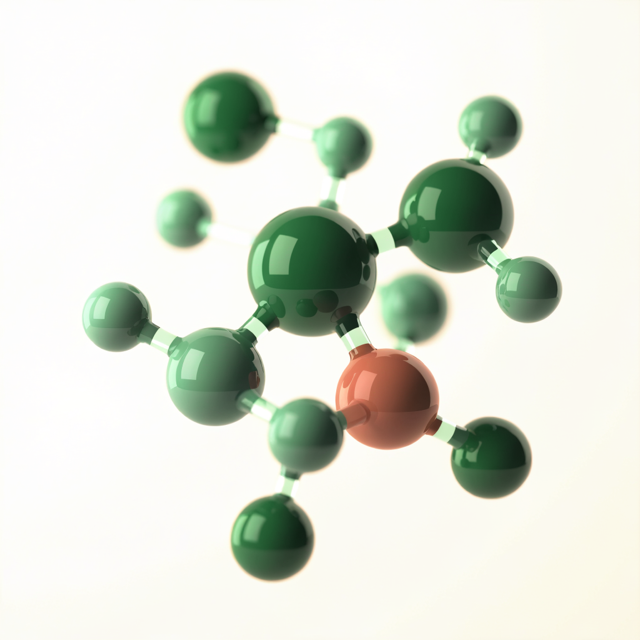
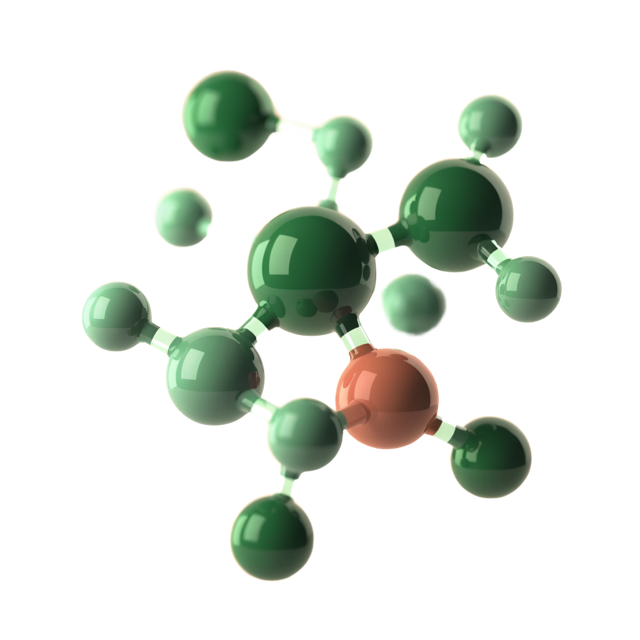
Catálogo tile: molécula flotante (fondo transparente) + nombre sobre la imagen
Feedback de Roberto: la molécula se veía muy grande (object-fit cover la
recortaba). Ahora:
- 13 moléculas pasadas por remove_background (Higgsfield) → fondo
  transparente, flotan limpias sobre el gradiente de la tarjeta.
- Tarjeta = tile: la imagen ES todo el cuadro (aspect 1/1.04, gradiente
  crema→menta), molécula en contain (más pequeña, completa), badge en
  overlay arriba, nombre + subtítulo superpuestos abajo sobre velo.
- Se quitan descripción/footer (la tarjeta entera es clickeable).

diff --git a/peptidos/index.html b/peptidos/index.html
@@ -45,56 +45,36 @@
     </div>
     <p class="cat-context">No todos los "GLP" son iguales. <strong>GLP-1</strong> significa <em>glucagon-like peptide-1</em>: una hormona del intestino que regula el <strong>apetito, la saciedad y la glucosa</strong>. La <strong>semaglutida</strong> imita esa sola hormona. La <strong>tirzepatida</strong> suma una segunda, <strong>GIP</strong>, por eso es un <em>agonista dual</em> y suele ser más potente. La <strong>retatrutida</strong> añade una tercera, el <strong>glucagón</strong> (que aumenta el gasto de energía), volviéndose un <em>triple agonista</em> — muy potente, pero todavía en investigación. Ojo: algunos ni siquiera son "GLP" (la cagrilintida es un análogo de amilina). El mecanismo, la evidencia y los riesgos <strong>cambian en cada uno</strong>.</p>
     <div class="grid">
-      <a class="pcard" data-category="metabolic" href="/peptides/semaglutide/">
-        <div class="pcard-media">
-          <img class="pcard-mol-img" src="/assets/images/structures/semaglutide.png" alt="Representación molecular de Semaglutide" loading="lazy" />
-          <span class="badge ev-establecido">Establecido</span>
-        </div>
-        <h3>Semaglutide</h3>
-        <p class="aka">Ozempic / Wegovy</p>
-        <p class="goal">Pérdida de peso y control de glucosa</p>
-        <div class="pcard-foot">
-          <span class="cat-tag">🔥 Metabólico / GLP-1</span>
-          <span class="more">Ver ficha →</span>
+      <a class="pcard pcard-tile" data-category="metabolic" href="/peptides/semaglutide/">
+        <img class="pcard-mol-img" src="/assets/images/structures/semaglutide.png" alt="Representación molecular de Semaglutide" loading="lazy" />
+        <span class="badge ev-establecido">Establecido</span>
+        <div class="pcard-cap">
+          <h3>Semaglutide</h3>
+          <p class="pcard-sub">Ozempic / Wegovy</p>
         </div>
       </a>
-      <a class="pcard" data-category="metabolic" href="/peptides/tirzepatide/">
-        <div class="pcard-media">
-          <img class="pcard-mol-img" src="/assets/images/structures/tirzepatide.png" alt="Representación molecular de Tirzepatide" loading="lazy" />
-          <span class="badge ev-establecido">Establecido</span>
-        </div>
-        <h3>Tirzepatide</h3>
-        <p class="aka">Mounjaro / Zepbound</p>
-        <p class="goal">Pérdida de peso y control de glucosa</p>
-        <div class="pcard-foot">
-          <span class="cat-tag">🔥 Metabólico / GLP-1</span>
-          <span class="more">Ver ficha →</span>
+      <a class="pcard pcard-tile" data-category="metabolic" href="/peptides/tirzepatide/">
+        <img class="pcard-mol-img" src="/assets/images/structures/tirzepatide.png" alt="Representación molecular de Tirzepatide" loading="lazy" />
+        <span class="badge ev-establecido">Establecido</span>
+        <div class="pcard-cap">
+          <h3>Tirzepatide</h3>
+          <p class="pcard-sub">Mounjaro / Zepbound</p>
         </div>
       </a>
-      <a class="pcard" data-category="metabolic" href="/peptides/retatrutide/">
-        <div class="pcard-media">
-          <img class="pcard-mol-img" src="/assets/images/structures/retatrutide.png" alt="Representación molecular de Retatrutide / LY3437943" loading="lazy" />
-          <span class="badge ev-clinico">Clínico / emergente</span>
-        </div>
-        <h3>Retatrutide</h3>
-        <p class="aka">LY3437943 (no es "GLP-3")</p>
-        <p class="goal">Pérdida de peso / metabólico (investigacional)</p>
-        <div class="pcard-foot">
-          <span class="cat-tag">🔥 Metabólico / GLP-1</span>
-          <span class="more">Ver ficha →</span>
+      <a class="pcard pcard-tile" data-category="metabolic" href="/peptides/retatrutide/">
+        <img class="pcard-mol-img" src="/assets/images/structures/retatrutide.png" alt="Representación molecular de Retatrutide" loading="lazy" />
+        <span class="badge ev-clinico">Clínico / emergente</span>
+        <div class="pcard-cap">
+          <h3>Retatrutide</h3>
+          <p class="pcard-sub">LY3437943 (no es "GLP-3")</p>
         </div>
       </a>
-      <a class="pcard" data-category="metabolic" href="/peptides/mots-c/">
-        <div class="pcard-media">
-          <img class="pcard-mol-img" src="/assets/images/structures/mots-c.png" alt="Representación molecular de MOTS-c" loading="lazy" />
-          <span class="badge ev-clinico">Clínico / emergente</span>
-        </div>
-        <h3>MOTS-c</h3>
-        <p class="aka">Metabólico / GLP-1</p>
-        <p class="goal">Energía y metabolismo</p>
-        <div class="pcard-foot">
-          <span class="cat-tag">🔥 Metabólico / GLP-1</span>
-          <span class="more">Ver ficha →</span>
+      <a class="pcard pcard-tile" data-category="metabolic" href="/peptides/mots-c/">
+        <img class="pcard-mol-img" src="/assets/images/structures/mots-c.png" alt="Representación molecular de MOTS-c" loading="lazy" />
+        <span class="badge ev-clinico">Clínico / emergente</span>
+        <div class="pcard-cap">
+          <h3>MOTS-c</h3>
+          <p class="pcard-sub">Metabólico / GLP-1</p>
         </div>
       </a>
     </div>
@@ -108,69 +88,44 @@
     </div>
     <p class="cat-context">La <strong>hormona de crecimiento (GH)</strong> es la señal que tu cuerpo usa para reparar tejido, recuperarse y mantener masa magra. Se libera en <strong>pulsos</strong>, sobre todo de noche, y llega a su pico en la juventud. A partir de los <strong>~25–30 años empieza a declinar</strong> (cerca de 1–2% por año), un fenómeno llamado <em>somatopausa</em>. Por eso muchas personas notan más cambios después de los 30: estos péptidos buscan <strong>reactivar tus propios pulsos de GH</strong> en vez de inyectar la hormona directa. Y la medida que de verdad importa no es "más GH", sino tu <strong>IGF-1</strong> — el promedio real de la actividad de la hormona de crecimiento en tu cuerpo.</p>
     <div class="grid">
-      <a class="pcard" data-category="gh" href="/peptides/tesamorelin/">
-        <div class="pcard-media">
-          <img class="pcard-mol-img" src="/assets/images/structures/tesamorelin.png" alt="Representación molecular de Tesamorelin" loading="lazy" />
-          <span class="badge ev-establecido">Establecido</span>
-        </div>
-        <h3>Tesamorelin</h3>
-        <p class="aka">Hormona de crecimiento</p>
-        <p class="goal">Grasa visceral y soporte del eje GH</p>
-        <div class="pcard-foot">
-          <span class="cat-tag">⚡ Hormona de crecimiento</span>
-          <span class="more">Ver ficha →</span>
+      <a class="pcard pcard-tile" data-category="gh" href="/peptides/tesamorelin/">
+        <img class="pcard-mol-img" src="/assets/images/structures/tesamorelin.png" alt="Representación molecular de Tesamorelin" loading="lazy" />
+        <span class="badge ev-establecido">Establecido</span>
+        <div class="pcard-cap">
+          <h3>Tesamorelin</h3>
+          <p class="pcard-sub">Hormona de crecimiento</p>
         </div>
       </a>
-      <a class="pcard" data-category="gh" href="/peptides/ipamorelin/">
-        <div class="pcard-media">
-          <img class="pcard-mol-img" src="/assets/images/structures/ipamorelin.png" alt="Representación molecular de Ipamorelin" loading="lazy" />
-          <span class="badge ev-clinico">Clínico / emergente</span>
-        </div>
-        <h3>Ipamorelin</h3>
-        <p class="aka">Hormona de crecimiento</p>
-        <p class="goal">Sueño, recuperación y composición corporal</p>
-        <div class="pcard-foot">
-          <span class="cat-tag">⚡ Hormona de crecimiento</span>
-          <span class="more">Ver ficha →</span>
+      <a class="pcard pcard-tile" data-category="gh" href="/peptides/ipamorelin/">
+        <img class="pcard-mol-img" src="/assets/images/structures/ipamorelin.png" alt="Representación molecular de Ipamorelin" loading="lazy" />
+        <span class="badge ev-clinico">Clínico / emergente</span>
+        <div class="pcard-cap">
+          <h3>Ipamorelin</h3>
+          <p class="pcard-sub">Hormona de crecimiento</p>
         </div>
       </a>
-      <a class="pcard" data-category="gh" href="/peptides/cjc-mod-grf/">
-        <div class="pcard-media">
-          <img class="pcard-mol-img" src="/assets/images/structures/cjc-mod-grf.png" alt="Representación molecular de Modified GRF (1-29) / CJC no DAC" loading="lazy" />
-          <span class="badge ev-clinico">Clínico / emergente</span>
-        </div>
-        <h3>CJC / mod-GRF</h3>
-        <p class="aka">CJC-1295 (sin DAC)</p>
-        <p class="goal">Soporte de GH, suele combinarse con ipamorelin</p>
-        <div class="pcard-foot">
-          <span class="cat-tag">⚡ Hormona de crecimiento</span>
-          <span class="more">Ver ficha →</span>
+      <a class="pcard pcard-tile" data-category="gh" href="/peptides/cjc-mod-grf/">
+        <img class="pcard-mol-img" src="/assets/images/structures/cjc-mod-grf.png" alt="Representación molecular de CJC / mod-GRF" loading="lazy" />
+        <span class="badge ev-clinico">Clínico / emergente</span>
+        <div class="pcard-cap">
+          <h3>CJC / mod-GRF</h3>
+          <p class="pcard-sub">CJC-1295 (sin DAC)</p>
         </div>
       </a>
-      <a class="pcard" data-category="gh" href="/peptides/sermorelin/">
-        <div class="pcard-media">
-          <img class="pcard-mol-img" src="/assets/images/structures/sermorelin.png" alt="Representación molecular de Sermorelin" loading="lazy" />
-          <span class="badge ev-clinico">Clínico / emergente</span>
-        </div>
-        <h3>Sermorelin</h3>
-        <p class="aka">Hormona de crecimiento</p>
-        <p class="goal">Soporte de GH, perfil más conservador</p>
-        <div class="pcard-foot">
-          <span class="cat-tag">⚡ Hormona de crecimiento</span>
-          <span class="more">Ver ficha →</span>
+      <a class="pcard pcard-tile" data-category="gh" href="/peptides/sermorelin/">
+        <img class="pcard-mol-img" src="/assets/images/structures/sermorelin.png" alt="Representación molecular de Sermorelin" loading="lazy" />
+        <span class="badge ev-clinico">Clínico / emergente</span>
+        <div class="pcard-cap">
+          <h3>Sermorelin</h3>
+          <p class="pcard-sub">Hormona de crecimiento</p>
         </div>
       </a>
-      <a class="pcard" data-category="gh" href="/peptides/mk-677/">
-        <div class="pcard-media">
-          <img class="pcard-mol-img" src="/assets/images/structures/mk-677.png" alt="Representación molecular de Ibutamoren / MK-677" loading="lazy" />
-          <span class="badge ev-clinico">Clínico / emergente</span>
-        </div>
-        <h3>MK-677</h3>
-        <p class="aka">Ibutamoren</p>
-        <p class="goal">GH / IGF-1, apetito y masa (oral)</p>
-        <div class="pcard-foot">
-          <span class="cat-tag">⚡ Hormona de crecimiento</span>
-          <span class="more">Ver ficha →</span>
+      <a class="pcard pcard-tile" data-category="gh" href="/peptides/mk-677/">
+        <img class="pcard-mol-img" src="/assets/images/structures/mk-677.png" alt="Representación molecular de MK-677" loading="lazy" />
+        <span class="badge ev-clinico">Clínico / emergente</span>
+        <div class="pcard-cap">
+          <h3>MK-677</h3>
+          <p class="pcard-sub">Ibutamoren</p>
         </div>
       </a>
     </div>
@@ -184,56 +139,36 @@
     </div>
     <p class="cat-context">Los péptidos de reparación <strong>no "construyen músculo" por sí solos</strong>: actúan sobre las vías que el cuerpo usa para sanar — <em>angiogénesis</em> (formar vasos nuevos), migración de células y control de la inflamación. La mayor parte de su evidencia es <strong>preclínica o de comunidad</strong>, así que las expectativas deben ser realistas. Importan sobre todo cuando entrenas fuerte o te recuperas más lento — algo que se acentúa con la edad.</p>
     <div class="grid">
-      <a class="pcard" data-category="healing" href="/peptides/bpc-157/">
-        <div class="pcard-media">
-          <img class="pcard-mol-img" src="/assets/images/structures/bpc-157.png" alt="Representación molecular de BPC-157" loading="lazy" />
-          <span class="badge ev-comunidad">Comunidad / anécdota</span>
-        </div>
-        <h3>BPC-157</h3>
-        <p class="aka">Reparación / Recovery</p>
-        <p class="goal">Tendón, intestino y recuperación de lesiones</p>
-        <div class="pcard-foot">
-          <span class="cat-tag">🌱 Reparación / Recovery</span>
-          <span class="more">Ver ficha →</span>
+      <a class="pcard pcard-tile" data-category="healing" href="/peptides/bpc-157/">
+        <img class="pcard-mol-img" src="/assets/images/structures/bpc-157.png" alt="Representación molecular de BPC-157" loading="lazy" />
+        <span class="badge ev-comunidad">Comunidad / anécdota</span>
+        <div class="pcard-cap">
+          <h3>BPC-157</h3>
+          <p class="pcard-sub">Reparación / Recovery</p>
         </div>
       </a>
-      <a class="pcard" data-category="healing" href="/peptides/tb-500/">
-        <div class="pcard-media">
-          <img class="pcard-mol-img" src="/assets/images/structures/tb-500.png" alt="Representación molecular de TB-500" loading="lazy" />
-          <span class="badge ev-comunidad">Comunidad / anécdota</span>
-        </div>
-        <h3>TB-500</h3>
-        <p class="aka">Thymosin β4</p>
-        <p class="goal">Tendón, tejido blando y recuperación</p>
-        <div class="pcard-foot">
-          <span class="cat-tag">🌱 Reparación / Recovery</span>
-          <span class="more">Ver ficha →</span>
+      <a class="pcard pcard-tile" data-category="healing" href="/peptides/tb-500/">
+        <img class="pcard-mol-img" src="/assets/images/structures/tb-500.png" alt="Representación molecular de TB-500" loading="lazy" />
+        <span class="badge ev-comunidad">Comunidad / anécdota</span>
+        <div class="pcard-cap">
+          <h3>TB-500</h3>
+          <p class="pcard-sub">Thymosin β4</p>
         </div>
       </a>
-      <a class="pcard" data-category="healing" href="/peptides/kpv/">
-        <div class="pcard-media">
-          <img class="pcard-mol-img" src="/assets/images/structures/kpv.png" alt="Representación molecular de KPV / Lys-Pro-Val" loading="lazy" />
-          <span class="badge ev-comunidad">Comunidad / anécdota</span>
-        </div>
-        <h3>KPV</h3>
-        <p class="aka">fragmento α-MSH</p>
-        <p class="goal">Inflamación, intestino y piel</p>
-        <div class="pcard-foot">
-          <span class="cat-tag">🌱 Reparación / Recovery</span>
-          <span class="more">Ver ficha →</span>
+      <a class="pcard pcard-tile" data-category="healing" href="/peptides/kpv/">
+        <img class="pcard-mol-img" src="/assets/images/structures/kpv.png" alt="Representación molecular de KPV" loading="lazy" />
+        <span class="badge ev-comunidad">Comunidad / anécdota</span>
+        <div class="pcard-cap">
+          <h3>KPV</h3>
+          <p class="pcard-sub">fragmento α-MSH</p>
         </div>
       </a>
-      <a class="pcard" data-category="healing" href="/peptides/ghk-cu/">
-        <div class="pcard-media">
-          <img class="pcard-mol-img" src="/assets/images/structures/ghk-cu.png" alt="Representación molecular de GHK-Cu" loading="lazy" />
-          <span class="badge ev-clinico">Clínico / emergente</span>
-        </div>
-        <h3>GHK-Cu</h3>
-        <p class="aka">Copper peptide</p>
-        <p class="goal">Piel, cabello y soporte de cicatrización</p>
-        <div class="pcard-foot">
-          <span class="cat-tag">🌱 Reparación / Recovery</span>
-          <span class="more">Ver ficha →</span>
+      <a class="pcard pcard-tile" data-category="healing" href="/peptides/ghk-cu/">
+        <img class="pcard-mol-img" src="/assets/images/structures/ghk-cu.png" alt="Representación molecular de GHK-Cu" loading="lazy" />
+        <span class="badge ev-clinico">Clínico / emergente</span>
+        <div class="pcard-cap">
+          <h3>GHK-Cu</h3>
+          <p class="pcard-sub">Copper peptide</p>
         </div>
       </a>
     </div>

diff --git a/assets/styles.css b/assets/styles.css
@@ -246,27 +246,34 @@ section[id] { scroll-margin-top: calc(var(--nav-h) + 18px); }
 .pcard:hover::after { transform: scaleX(1); }
 .pcard-top { display: flex; align-items: center; justify-content: space-between; margin-bottom: 14px; gap: 12px; }
 .pcard-icon { width: 44px; height: 44px; border-radius: 12px; display: grid; place-items: center; font-size: 1.3rem; background: var(--mint-soft); }
-.pcard-media {
-  position: relative;
-  width: 100%;
-  height: 140px;
-  margin-bottom: 16px;
-  border-radius: 14px;
-  overflow: hidden;
-  background: var(--surface-2);
-  display: grid;
-  place-items: center;
-}
-.pcard-media .pcard-mol-img {
-  width: 100%;
-  height: 100%;
-  object-fit: cover;
+/* ---------- tarjeta tile: la imagen ES toda la tarjeta, nombre superpuesto abajo ---------- */
+.pcard-tile {
   display: block;
-  transition: transform .4s var(--ease);
+  aspect-ratio: 1 / 1.04;
+  padding: 0;
+  border-radius: var(--radius);
+  overflow: hidden;
+  background: linear-gradient(165deg, #F6F4EC, #EAF3EC);
 }
-.pcard:hover .pcard-media .pcard-mol-img { transform: scale(1.05); }
-.pcard-media .badge { position: absolute; top: 10px; right: 10px; }
-.pcard-icon-lg { width: 64px; height: 64px; font-size: 2rem; border-radius: 16px; }
+.pcard-tile::after { display: none; }
+.pcard-tile .pcard-mol-img {
+  position: absolute;
+  top: 0; left: 0;
+  width: 100%; height: 74%;
+  object-fit: contain;
+  padding: 18px;
+  transition: transform .45s var(--ease);
+}
+.pcard-tile:hover .pcard-mol-img { transform: scale(1.06); }
+.pcard-tile .badge { position: absolute; top: 12px; right: 12px; z-index: 2; }
+.pcard-tile .pcard-tile-icon { position: absolute; inset: 0; display: grid; place-items: center; font-size: 2.6rem; }
+.pcard-tile .pcard-cap {
+  position: absolute; left: 0; right: 0; bottom: 0; z-index: 2;
+  padding: 42px 16px 15px;
+  background: linear-gradient(to top, rgba(22,39,31,.84), rgba(22,39,31,.34) 52%, transparent);
+}
+.pcard-tile .pcard-cap h3 { margin: 0; color: #fff; font-size: 1.12rem; letter-spacing: -.01em; }
+.pcard-tile .pcard-cap .pcard-sub { margin: 3px 0 0; color: rgba(255,255,255,.86); font-size: .8rem; }
 .pcard h3 { margin: 0 0 2px; }
 .pcard .aka { color: var(--muted); font-size: .85rem; margin: 0 0 12px; }
 .pcard .goal { color: var(--ink-2); font-size: .96rem; margin: 0 0 16px; flex-grow: 1; }
